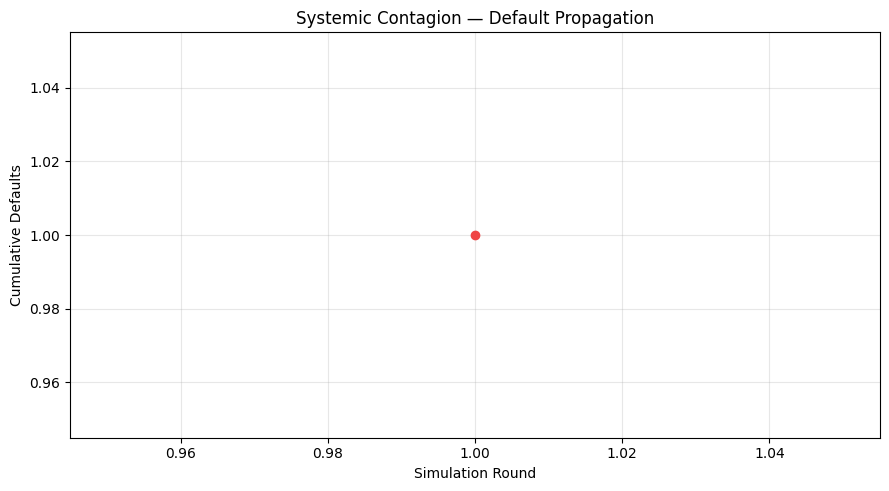
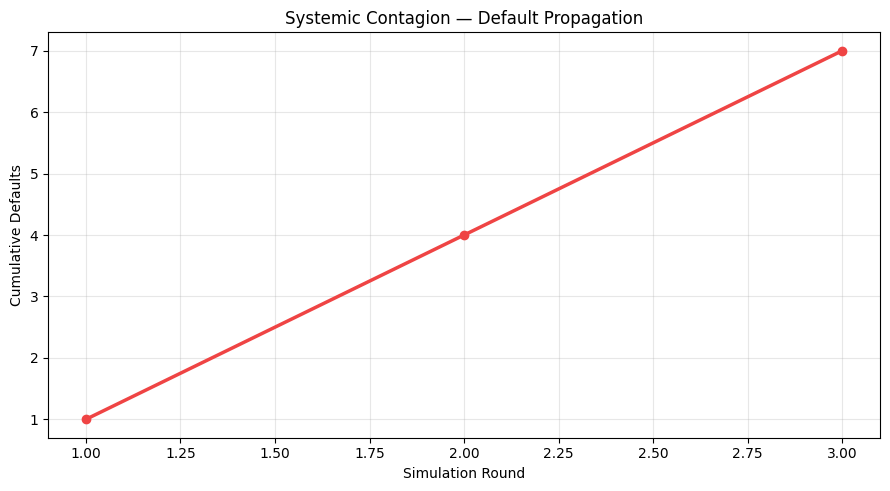
Enhance Banking Stress Testing contagion model and Excel dashboard visuals

diff --git a/banking_stress_testing.py b/banking_stress_testing.py
@@ -1,4 +1,3 @@
-# banking_stress_testing.py
 # 🏦 Banking Crises & Stress Testing (2024)
 # SVB & Credit Suisse contagion, liquidity, and systemic risk simulation
 
@@ -9,25 +8,28 @@ import os
 
 os.makedirs("assets", exist_ok=True)
 
-# ---------- Liquidity Stress Test ----------
+# ---------- Liquidity Stress Simulation ----------
 durations = np.array([1, 2, 5, 10])
-rate_shocks = np.linspace(0, 3, 7)  # 0% to 3%
+rate_shocks = np.linspace(-2, 2, 9)  # -2% to +2%
 
-# Price change ≈ -Duration × Δy
-loss_matrix = np.outer(durations, rate_shocks) * -1
+# Simulated price change ≈ -Duration × Δy × sensitivity factor
+loss_matrix = np.outer(durations, rate_shocks) * -0.8
 loss_df = pd.DataFrame(
     loss_matrix,
     index=[f"{d}Y" for d in durations],
-    columns=[f"{r:.1f}%" for r in rate_shocks],
+    columns=[f"{r:+.1f}%" for r in rate_shocks],
 )
 
-# Save PNG for website modal
-plt.figure(figsize=(7, 5))
-plt.imshow(loss_df, cmap="Reds", aspect="auto")
-plt.title("Liquidity Stress Test — Bond Loss Sensitivity")
-plt.xlabel("Rate Shock (%)")
-plt.ylabel("Duration (Years)")
-plt.colorbar(label="Price Change (%)")
+# Plot — Liquidity Stress Lines
+plt.figure(figsize=(9, 5))
+for i, d in enumerate(durations):
+    plt.plot(rate_shocks, loss_matrix[i], label=f"{d}Y Duration", linewidth=2)
+plt.axhline(0, color="gray", linestyle="--", linewidth=1)
+plt.title("Liquidity Stress Simulation — Bond Value Sensitivity")
+plt.xlabel("Interest Rate Shock (%)")
+plt.ylabel("Portfolio Value Change (%)")
+plt.legend()
+plt.grid(alpha=0.3)
 plt.tight_layout()
 plt.savefig("assets/stress_liquidity.png", bbox_inches="tight", facecolor="white")
 plt.close()
@@ -35,15 +37,21 @@ plt.close()
 # ---------- Contagion Simulation ----------
 banks = ["SVB", "Credit Suisse", "Deutsche", "HSBC", "JPM", "BNP", "UBS"]
 np.random.seed(42)
+
+# Create denser interbank exposures for realism
 exposure = pd.DataFrame(
-    np.random.uniform(0, 1, (len(banks), len(banks))), index=banks, columns=banks
+    np.random.uniform(0.3, 1.0, (len(banks), len(banks))), index=banks, columns=banks
 )
 np.fill_diagonal(exposure.values, 0)
 
-loss_given_default = 0.5
-threshold = 8.0
+# Parameters — tune to ensure propagation
+loss_given_default = 0.7     # how much loss if a counterparty defaults
+threshold = 0.3              # threshold of losses before a bank fails
 
 def contagion_round(exposure_df, defaults, lgd, threshold):
+    """Compute contagion round given defaults."""
+    if not defaults:
+        return pd.Series(0, index=exposure_df.index), set()
     losses = exposure_df[list(defaults)].sum(axis=1) * lgd
     new_defaults = set(exposure_df.index[losses > threshold]) - defaults
     return losses, new_defaults
@@ -51,10 +59,18 @@ def contagion_round(exposure_df, defaults, lgd, threshold):
 defaults = {"SVB"}
 all_defaults = set(defaults)
 rounds = []
+defaults_count = []
 
+# Simulate up to 6 contagion rounds
 for i in range(6):
     losses, new = contagion_round(exposure, defaults, loss_given_default, threshold)
-    rounds.append({"Round": i + 1, "Defaults": list(defaults), "New Defaults": list(new)})
+    rounds.append({
+        "Round": i + 1,
+        "Defaults": list(defaults),
+        "New Defaults": list(new),
+        "Triggered Banks": len(defaults),
+    })
+    defaults_count.append(len(defaults))
     if not new:
         break
     defaults |= new
@@ -62,12 +78,14 @@ for i in range(6):
 
 contagion_summary = pd.DataFrame(rounds)
 
-# Save PNG for website modal
-plt.figure(figsize=(7, 5))
-plt.bar(contagion_summary["Round"], contagion_summary["Defaults"].apply(len), color="indianred")
-plt.title("Systemic Contagion Simulation — Default Spread Over Rounds")
+# Plot — Contagion Propagation Line (visible curve)
+plt.figure(figsize=(9, 5))
+plt.plot(range(1, len(defaults_count) + 1), defaults_count,
+         marker="o", linewidth=2.5, color="#ef4444")
+plt.title("Systemic Contagion — Default Propagation")
 plt.xlabel("Simulation Round")
 plt.ylabel("Cumulative Defaults")
+plt.grid(alpha=0.3)
 plt.tight_layout()
 plt.savefig("assets/stress_contagion.png", bbox_inches="tight", facecolor="white")
 plt.close()
@@ -81,7 +99,7 @@ with pd.ExcelWriter(file, engine="xlsxwriter") as writer:
 
     wb = writer.book
 
-    # Liquidity Chart (Line)
+    # Liquidity Chart
     ws_liq = writer.sheets["Liquidity Stress"]
     chart1 = wb.add_chart({"type": "line"})
     for i, col in enumerate(loss_df.columns):
@@ -96,13 +114,13 @@ with pd.ExcelWriter(file, engine="xlsxwriter") as writer:
     chart1.set_legend({"position": "bottom"})
     ws_liq.insert_chart("H2", chart1)
 
-    # Contagion Chart (Column)
+    # Contagion Chart
     ws_con = writer.sheets["Contagion Simulation"]
-    chart2 = wb.add_chart({"type": "column"})
+    chart2 = wb.add_chart({"type": "line"})
     chart2.add_series({
         "categories": ["Contagion Simulation", 1, 0, len(contagion_summary), 0],
-        "values":     ["Contagion Simulation", 1, 1, len(contagion_summary), 1],
-        "name":       "Defaults per Round",
+        "values":     ["Contagion Simulation", 1, 3, len(contagion_summary), 3],
+        "name":       "Cumulative Defaults",
     })
     chart2.set_title({"name": "Systemic Contagion — Defaults Over Time"})
     chart2.set_x_axis({"name": "Simulation Round"})
